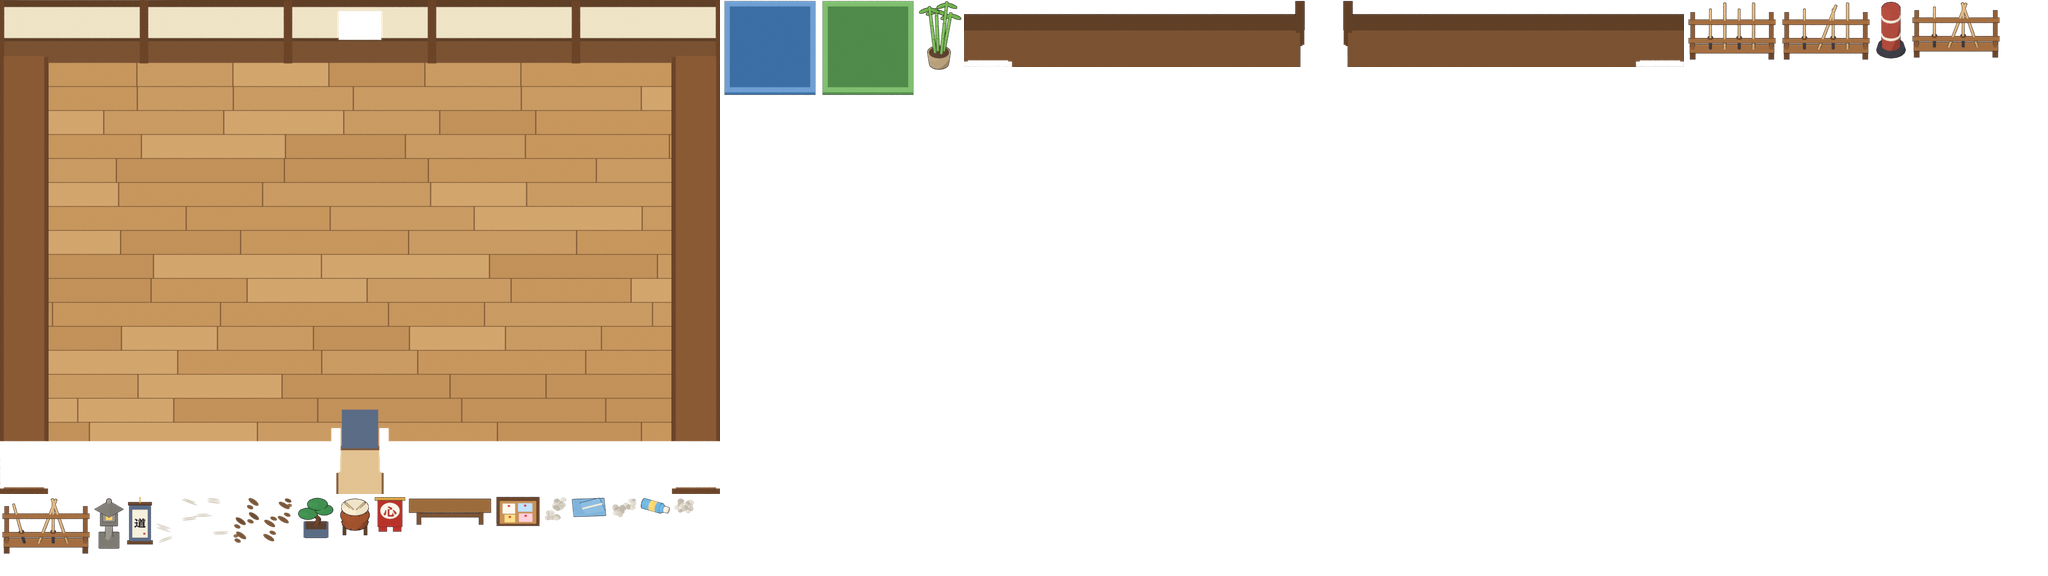
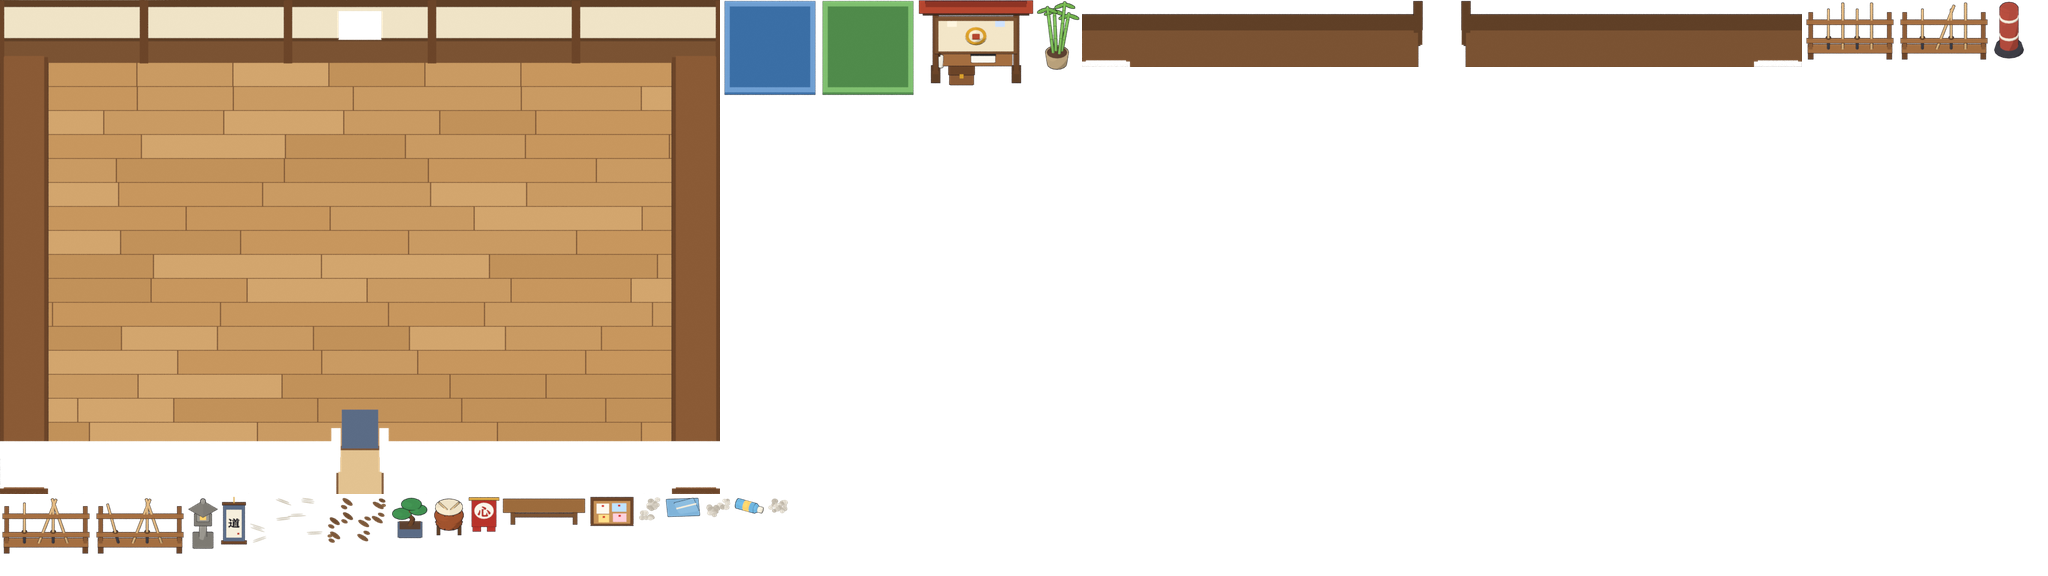
Training station art in the game, in the dojo's top-right corner; whole room in view while walking
- Jay approved the Blender station and turned down the tatami floor (removed from the draft script).
- Station: 2x2 solid tiles at columns 13-14, rows 2-3; walk up to it or tap it to open the Training Board.
- The dojo fits the whole room under the top bar while walking so the corner station is always visible.
- Art import only replaces a pack's own numbered pages (importing 'dojo' had deleted the dojo-az pages).

diff --git a/apps/client/src/scenes/DojoScene.ts b/apps/client/src/scenes/DojoScene.ts
@@ -99,10 +99,13 @@ const ROW2_Y = 60;
 const TRAY = 70;
 /** How many tiles tall the view is (the camera follows the character, like in the Tower). */
 const VIEW_ROWS = 6.5;
-/** Nov 17: walking around, the view shows more of the room, so the training station is in sight. Decorating keeps the close view. */
-const PLAY_VIEW_ROWS = 8.6;
-/** The training station (tiles): its middle, its base and top rows, and how far right of it counts as beside it. */
-const STATION = { x: 2, footY: 6, top: 4, reachX: 3.85 } as const;
+/**
+ * Nov 18: walking around, the view fits the whole room under the top bar (the room is 10 rows), so the
+ * training station in the top-right corner is always in sight. Decorating keeps the close view.
+ */
+const PLAY_FIT_ROWS = 10.1;
+/** The training station (tiles), in the top-right corner (Jay, Nov 18): its middle, its base row, and its left edge. */
+const STATION = { x: 13, footY: 3, left: 12 } as const;
 /** A tap this close (tiles) to a decoration picks it, for big fingers. */
 const PICK_SLACK = 0.7;
 /** Arrow buttons for moving the selected decoration. */
@@ -240,8 +243,8 @@ export class DojoScene extends Phaser.Scene {
     this.selectGfx = this.add.graphics();
     this.player = this.makePlayer();
     this.standLayer.add(this.player);
-    // Nov 17: the training station against the left wall (its 2x2 floor tiles are solid).
-    this.standLayer.add(drawTrainingStation(this, STATION.x * TILE, (STATION.footY - 0.08) * TILE, TILE, PW.dojoWallLabel));
+    // Nov 18: the training station in the top-right corner (its 2x2 floor tiles are solid). Jay approved its art.
+    this.standLayer.add(drawTrainingStation(this, STATION.x * TILE, STATION.footY * TILE, TILE, PW.dojoWallLabel));
     // Bottom to top: the floor and back wall, mats, the mess on the floor, standing things
     // and the character, then the front wall (the character walks behind it), outlines and labels.
     this.worldLayer.add([...room.back, this.decoLayer, this.spotLayer, this.standLayer, ...room.front, this.selectGfx, ...room.labels]);
@@ -494,10 +497,10 @@ export class DojoScene extends Phaser.Scene {
 
     const door = CONTENT.dojo.room.doors[0];
     const dDoor = Math.hypot(p.pos.x - door.x, p.pos.y - door.y);
-    // Next to the station (it is solid, so the hero stops beside or below it).
-    const atStation = p.pos.x < STATION.reachX && p.pos.y > STATION.top - 0.6 && p.pos.y < STATION.footY + 0.75;
+    // Next to the station (it is solid, so the hero stops below it or to its left).
+    const atStation = p.pos.x > STATION.left - 0.85 && p.pos.y < STATION.footY + 0.85;
     if (dDoor > 2.1) this.doorArmed = true;
-    if (p.pos.x > STATION.reachX + 0.9 || p.pos.y > STATION.footY + 1.4) this.boardArmed = true;
+    if (p.pos.x < STATION.left - 1.7 || p.pos.y > STATION.footY + 1.8) this.boardArmed = true;
     // The doorway: the last row before the door, anywhere across the door's width (a tap on the door
     // stops the hero a little short of it, so a tight distance missed it).
     const inDoorway = Math.abs(p.pos.x - door.x) < 0.9 && door.y - p.pos.y < 1.6;
@@ -1579,7 +1582,7 @@ export class DojoScene extends Phaser.Scene {
   /** Zooms in so the view is VIEW_ROWS tiles tall, like the Tower. */
   private layout(): void {
     const { width, height } = view(this);
-    this.zoom = height / ((this.mode === 'decorate' ? VIEW_ROWS : PLAY_VIEW_ROWS) * TILE);
+    this.zoom = this.mode === 'decorate' ? height / (VIEW_ROWS * TILE) : (height - TOP) / (PLAY_FIT_ROWS * TILE);
     this.worldLayer.setScale(this.zoom);
     this.choreButton.setPosition(width - CHORE_RADIUS - 24, height - CHORE_RADIUS - 24);
     this.controls.layout();
@@ -1622,7 +1625,7 @@ export class DojoScene extends Phaser.Scene {
   private toTile(x: number, y: number): Vec2 {
     const t = this.rawTile(x, y);
     // A tap on the training station walks up beside it.
-    if (this.onStation(t)) return { x: STATION.reachX - 0.3, y: STATION.footY - 0.6 };
+    if (this.onStation(t)) return { x: STATION.x, y: STATION.footY + 0.5 };
     return t;
   }
 
@@ -1632,7 +1635,7 @@ export class DojoScene extends Phaser.Scene {
 
   /** True for a room point (tiles) on the training station or its label. */
   private onStation(t: Vec2): boolean {
-    return this.mode === 'play' && t.x > 0.5 && t.x < STATION.reachX - 0.4 && t.y > STATION.top - 1.9 && t.y < STATION.footY + 0.2;
+    return this.mode === 'play' && t.x > STATION.left - 0.3 && t.x < STATION.left + 2.3 && t.y > -1 && t.y < STATION.footY + 0.2;
   }
 
   private puff(s: MessSpot): void {

diff --git a/apps/client/src/ui/trainingStation.ts b/apps/client/src/ui/trainingStation.ts
@@ -1,4 +1,5 @@
 import Phaser from 'phaser';
+import { addStatic, staticArt, staticBounds } from '../art/art';
 import { reducedMotion } from '../game/motion';
 import { FONT, crisp } from './theme';
 
@@ -9,6 +10,21 @@ import { FONT, crisp } from './theme';
  * Drawn in code until there is art for it. (cx, footY) is the middle of its base, in world pixels.
  */
 export function drawTrainingStation(scene: Phaser.Scene, cx: number, footY: number, tile: number, label: string): Phaser.GameObjects.Container {
+  // Nov 18: Jay approved the Blender station ('training-station' in the dojo pack). The code drawing
+  // below is only a fallback for when that art isn't loaded.
+  const art = addStatic(scene, 'dojo', 'training-station', 0, 0);
+  if (art.length > 0) {
+    // The label sits just above the painted top of the art (its roof).
+    const b = staticBounds(scene, 'dojo', 'training-station');
+    const sprite = staticArt(scene, 'dojo', 'training-station');
+    const anchorTop = b && sprite ? b.y - sprite.anchor[1] : -tile * 1.75;
+    const glow = scene.add.ellipse(0, tile * 0.25, tile * 2.2, tile * 0.6, 0xffd166, 0.22);
+    const text = stationLabel(scene, anchorTop - 4, label);
+    const chevron = stationChevron(scene, anchorTop - 30);
+    const c = scene.add.container(cx, footY, [glow, ...art, text, chevron]);
+    bob(scene, chevron, glow, anchorTop - 24);
+    return c;
+  }
   const w = tile * 2.3;
   const h = tile * 1.75;
   const g = scene.add.graphics();
@@ -49,8 +65,16 @@ export function drawTrainingStation(scene: Phaser.Scene, cx: number, footY: numb
   g.fillStyle(0xcfe3ff).fillRect(bx + bw - 14 - tile * 0.32, by + 16, tile * 0.32, tile * 0.24);
   g.fillStyle(0xb5462f).fillCircle(bx + 14 + tile * 0.16, by + 15, 2.5).fillCircle(bx + bw - 14 - tile * 0.16, by + 17, 2.5);
 
-  const text = scene.add
-    .text(0, top - 4, label, {
+  const text = stationLabel(scene, top - 4, label);
+  const chevron = stationChevron(scene, top - 30);
+  const c = scene.add.container(cx, footY, [glow, g, text, chevron]);
+  bob(scene, chevron, glow, top - 24);
+  return c;
+}
+
+function stationLabel(scene: Phaser.Scene, y: number, label: string): Phaser.GameObjects.Text {
+  return scene.add
+    .text(0, y, label, {
       fontFamily: FONT,
       fontStyle: 'bold',
       fontSize: '14px',
@@ -62,18 +86,21 @@ export function drawTrainingStation(scene: Phaser.Scene, cx: number, footY: numb
     })
     .setOrigin(0.5, 1)
     .setResolution(crisp() * 2);
+}
 
-  // A small gold chevron that bobs above the label (still with reduced motion).
+/** A small gold chevron above the label, pointing down at the station. */
+function stationChevron(scene: Phaser.Scene, y: number): Phaser.GameObjects.Graphics {
   const chevron = scene.add.graphics();
   chevron.fillStyle(0xffd166, 1);
   chevron.fillTriangle(-8, 0, 8, 0, 0, 9);
   chevron.lineStyle(2, 0x14121c, 1).strokeTriangle(-8, 0, 8, 0, 0, 9);
-  chevron.setPosition(0, top - 30);
+  chevron.setPosition(0, y);
+  return chevron;
+}
 
-  const c = scene.add.container(cx, footY, [glow, g, text, chevron]);
-  if (!reducedMotion()) {
-    scene.tweens.add({ targets: chevron, y: top - 24, duration: 650, yoyo: true, repeat: -1, ease: 'Sine.InOut' });
-    scene.tweens.add({ targets: glow, alpha: 0.38, duration: 1200, yoyo: true, repeat: -1, ease: 'Sine.InOut' });
-  }
-  return c;
+/** The chevron bobs and the floor glow breathes (both still with reduced motion). */
+function bob(scene: Phaser.Scene, chevron: Phaser.GameObjects.Graphics, glow: Phaser.GameObjects.Ellipse, toY: number): void {
+  if (reducedMotion()) return;
+  scene.tweens.add({ targets: chevron, y: toY, duration: 650, yoyo: true, repeat: -1, ease: 'Sine.InOut' });
+  scene.tweens.add({ targets: glow, alpha: 0.38, duration: 1200, yoyo: true, repeat: -1, ease: 'Sine.InOut' });
 }

diff --git a/packages/sim/src/dojo.ts b/packages/sim/src/dojo.ts
@@ -201,7 +201,7 @@ export function loadDojoContent(roomData: unknown, decorationsData: unknown): Do
   const b = raw.board as Record<string, unknown> | undefined;
   if (!b || typeof b.column !== 'number' || typeof b.row !== 'number' || b.row !== 1) throw new DojoError('"board" needs a "column" and "row": 1 (the top wall)');
   const board = { col: b.column - 1, row: 0 };
-  // Nov 17: the training station stands against the left wall, mid-room (STATION_TILES). It is solid,
+  // Nov 18: the training station stands in the room's top-right corner (STATION_TILES). It is solid,
   // so nothing is placed there and the hero walks up to it, not through it.
   for (const t of STATION_TILES) if (room.walls[t.row]?.[t.col] === false) room.walls[t.row][t.col] = true;
 
@@ -446,6 +446,8 @@ export function canPlace(dojo: DojoState, content: DojoContent, uid: string, col
     // Along the top wall, clear of the corners, the board, and other wall decorations.
     if (row !== 0 || col < 1 || col + def.width > room.width - 1) return false;
     if (tiles.some((t) => t.col === content.board.col)) return false;
+    // ...and not on the wall behind the training station, where it would be hidden.
+    if (tiles.some((t) => STATION_TILES.some((s) => s.col === t.col))) return false;
     return !placed(dojo).some((o) => o.uid !== uid && decorationDef(content, o.id).place === 'wall' && overlaps(tiles, footprint(o.col!, o.row!, decorationDef(content, o.id))));
   }
   if (tiles.some((t) => room.walls[t.row]?.[t.col] !== false)) return false;
@@ -516,12 +518,12 @@ export function findSpot(dojo: DojoState, content: DojoContent, uid: string): { 
 }
 
 /** The dojo room with solid decorations counted as walls, for walking around in. */
-/** The floor tiles the Home Dojo's training station stands on: 2x2 against the left wall, mid-room. */
+/** The floor tiles the Home Dojo's training station stands on: 2x2 in the top-right corner (Jay, Nov 18). */
 export const STATION_TILES: readonly { col: number; row: number }[] = [
-  { col: 1, row: 4 },
-  { col: 2, row: 4 },
-  { col: 1, row: 5 },
-  { col: 2, row: 5 },
+  { col: 12, row: 1 },
+  { col: 13, row: 1 },
+  { col: 12, row: 2 },
+  { col: 13, row: 2 },
 ];
 
 export function dojoRoom(dojo: DojoState, content: DojoContent): Room {

diff --git a/packages/sim/test/dojo.test.ts b/packages/sim/test/dojo.test.ts
@@ -198,9 +198,10 @@ describe('decorating', () => {
     const ids = addDecorations(dojo, ['stone-lantern', 'stone-lantern', 'stone-lantern']);
     const start = { col: Math.floor(dc.room.playerStart.x), row: Math.floor(dc.room.playerStart.y) };
     expect(canPlace(dojo, dc, ids[0].uid, start.col, start.row)).toBe(false);
-    // Boxing in the corner (13, 1)... placing lanterns at (12,1) and (13,2) would seal it.
-    expect(placeItem(dojo, dc, ids[0].uid, 12, 1)).toBe(true);
-    expect(canPlace(dojo, dc, ids[1].uid, 13, 2)).toBe(false);
+    // Boxing in the corner (1, 8)... placing lanterns at (2,8) and (1,7) would seal it.
+    // (The top-right corner holds the training station since Nov 18.)
+    expect(placeItem(dojo, dc, ids[0].uid, 2, 8)).toBe(true);
+    expect(canPlace(dojo, dc, ids[1].uid, 1, 7)).toBe(false);
   });
 
   it('dust under a moved decoration moves out from under it', () => {

diff --git a/incoming-art/claude-dojo-v2/source/build_dojo_v2.py b/incoming-art/claude-dojo-v2/source/build_dojo_v2.py
@@ -1,6 +1,6 @@
 """
-Dojo Ascent - Home Dojo v2 (Claude Code, Nov 18): the Art Director bot's Batch 3 script, with a tatami
-training floor and the new training station. Original: incoming-art/home-dojo/source/build_home_dojo.py.
+Dojo Ascent - Home Dojo v2 (Claude Code, Nov 18): the Art Director bot's Batch 3 script plus the training
+station (Jay approved the station Nov 18; the tatami floor was turned down, so the floor is the original). Original: incoming-art/home-dojo/source/build_home_dojo.py.
 
 Dojo Ascent - Home Dojo room, decorations and mess (Art Director bot), Batch 3.
 
@@ -89,7 +89,7 @@ def target(name, layers, rect, top, anchor="bottom-center", **kw):
 WOOD = ["#c99a62", "#c19159", "#d2a56d", "#c7965d"]
 H_WALL = 1.3 / math.cos(math.radians(35))       # the back wall fills the top wall row + 0.3 tile above it
 cols, rows = len(ROOM["tiles"][0]), len(ROOM["tiles"])          # 15 x 10
-# floor v2 (Nov 18): wooden planks around the edge, and a tatami training floor in the middle.
+# floor: a dark base, then planks running left-right (half-tile rows), random lengths
 gbox("floor", "floor_base", 0, 0, cols, rows, -0.06, -0.01, "#7b5434", outline=False)
 for j in range(2, 2 * (rows - 1)):
     c = 1.0 - random.random() * 2
@@ -99,44 +99,6 @@ for j in range(2, 2 * (rows - 1)):
         gbox("floor", f"plank_{j}_{c:.1f}", max(c, 1) + 0.012, j / 2 + 0.012, c1 - 0.012, (j + 1) / 2 - 0.012, -0.01, 0.0,
              random.choice(WOOD), outline=False)
         c = c1
-# Tatami: columns 4..11, rows 2..8 (tiles), in the classic pattern of 2x1 mats turned this way and that.
-# Each mat: a woven straw face (two close greens/tans), a dark cloth edge (heri) on its long sides.
-T0C, T1C, T0R, T1R = 4, 12, 2, 8
-gbox("floor", "tatami_frame", T0C - 0.1, T0R - 0.1, T1C + 0.1, T1R + 0.1, 0.0, 0.012, "#5f3f26", outline=False)
-STRAW = ["#cdbf7a", "#c6b872", "#d2c582", "#c9bb76"]
-HERI = "#2f4a3a"
-def tatami(name, c0, r0, c1, r1, vertical):
-    gbox("floor", name, c0 + 0.02, r0 + 0.02, c1 - 0.02, r1 - 0.02, 0.012, 0.03, random.choice(STRAW), outline=False)
-    # weave lines across the mat's short way
-    n = 9
-    for k in range(1, n):
-        if vertical:
-            y = r0 + (r1 - r0) * k / n
-            gbox("floor", f"{name}_w{k}", c0 + 0.08, y - 0.006, c1 - 0.08, y + 0.006, 0.03, 0.032, "#b5a765", outline=False)
-        else:
-            x = c0 + (c1 - c0) * k / n
-            gbox("floor", f"{name}_w{k}", x - 0.006, r0 + 0.08, x + 0.006, r1 - 0.08, 0.03, 0.032, "#b5a765", outline=False)
-    if vertical:   # heri along the long (vertical) sides
-        gbox("floor", f"{name}_hl", c0 + 0.02, r0 + 0.02, c0 + 0.09, r1 - 0.02, 0.03, 0.036, HERI, outline=False)
-        gbox("floor", f"{name}_hr", c1 - 0.09, r0 + 0.02, c1 - 0.02, r1 - 0.02, 0.03, 0.036, HERI, outline=False)
-    else:
-        gbox("floor", f"{name}_ht", c0 + 0.02, r0 + 0.02, c1 - 0.02, r0 + 0.09, 0.03, 0.036, HERI, outline=False)
-        gbox("floor", f"{name}_hb", c0 + 0.02, r1 - 0.09, c1 - 0.02, r1 - 0.02, 0.03, 0.036, HERI, outline=False)
-k = 0
-for r in range(T0R, T1R, 2):
-    for c in range(T0C, T1C, 2):
-        # alternate: a 2x2 block is either two side-by-side vertical mats or two stacked horizontal mats
-        if ((r - T0R) // 2 + (c - T0C) // 2) % 2 == 0:
-            tatami(f"tat{k}a", c, r, c + 1, r + 2, True); tatami(f"tat{k}b", c + 1, r, c + 2, r + 2, True)
-        else:
-            tatami(f"tat{k}a", c, r, c + 2, r + 1, False); tatami(f"tat{k}b", c, r + 1, c + 2, r + 2, False)
-        k += 1
-# A red line marks where students bow in, along the front edge of the tatami.
-gbox("floor", "bow_line", T0C + 3.4, T1R - 0.22, T1C - 3.4, T1R - 0.14, 0.036, 0.04, "#b5462f", outline=False)
-# Soft shade along the walls (a few dark strips, very faint), so the room has depth.
-for i, a in enumerate((0.16, 0.10, 0.05)):
-    sh = M("#3a2616", flat=True)
-gbox("floor", "shade_top", 1, 1.0, cols - 1, 1.35, 0.001, 0.002, "#a57a4c", outline=False)
 # back wall (top row): dark wainscot, plaster panels between posts, a top beam
 WF = 1.0                                           # the wall's front face stands on the line between rows 0 and 1
 def wall_part(name, c0, c1, z0, z1, color, dy=0.0, outline=False):
@@ -417,7 +379,7 @@ for nm, fn, sd, what in LITTER:
                        note=f"mess: {what}, centred on the spot (anchorPx = cell centre). Replaces the fallen leaves: draw for the game's 'leaf' floor spots (pick one of footprints-1, footprints-2, towel, water-bottle). Clean = not drawn")
 
 # ============================================================ TRAINING STATION (Nov 18, Claude Code)
-# 2 x 2 floor tiles against the left wall (columns 2-3, rows 5-6 counting from 1). A wooden stand with a
+# 2 x 2 floor tiles in the room's top-right corner (columns 13-14, rows 2-3 counting from 1; Jay, Nov 18). A wooden stand with a
 # tiled roof, a scroll board showing a gold fist emblem (training), hand wraps hanging from pegs and a small
 # chest of gear at its foot. anchorPx = the bottom-centre of the footprint, like the other floor pieces.
 def station(lay, w, h):
@@ -451,7 +413,7 @@ def station(lay, w, h):
     obox(lay, f"{lay}_clasp", Vector((w / 2 - 0.3, yb - 0.36, 0.24)), (0.08, 0.02, 0.1), "#d9a02b", outline=False)
 station("training-station", 2, 2)
 target("training-station", ["training-station"], [-0.25, 0, 2.25, 2.12], 1.9, anchor=[1, 2], footprint=[2, 2], place="floor",
-       note="the Home Dojo's training station (Nov 18): stands on columns 2-3, rows 5-6 (1-based); anchorPx = bottom-centre of the footprint")
+       note="the Home Dojo's training station (Nov 18): stands on columns 13-14, rows 2-3 (1-based); anchorPx = bottom-centre of the footprint")
 
 scene.frame_set(1)
 scene["static_targets"] = json.dumps(TARGETS)

diff --git a/tools/art-import/import_art.py b/tools/art-import/import_art.py
@@ -278,7 +278,9 @@ def main() -> None:
         pages = packer.pack()
         names = []
         for old in os.listdir(out_dir):
-            if old.startswith(pack_name + '-') and old.endswith(('.png', '.webp')):
+            # Only this pack's own pages (<pack>-<number>): "dojo" must never remove "dojo-az-inside-0".
+            stem = old.rsplit('.', 1)[0]
+            if stem.startswith(pack_name + '-') and stem[len(pack_name) + 1:].isdigit() and old.endswith(('.png', '.webp')):
                 os.remove(os.path.join(out_dir, old))
         for i, page in enumerate(pages):
             # Lossless WebP by default: exact pixels, about 40% smaller than PNG.

diff --git a/docs/decisions.md b/docs/decisions.md
@@ -2017,3 +2017,10 @@ Jay's answers to the Fable review's questions (Nov 14, board section 000) applie
 - **New Equipment screen (Jay: "premium feel like Archero 2, Survivor.io").** One full-screen view replaces the Gear tab's paper doll and the separate Bag screen: the hero on a pedestal with three big slots, the whole bag as a scrolling grid of rarity-framed tiles (best first, filter chips, green upgrade arrows, Wearing ribbons), a pop-up item card with one big Wear / Take off button, and Wear best. The compare stays arrows and words, with numbers behind Details (D6 and CLAUDE.md rule 13). The old gear-tab code is unused and can be removed later.
 - **Desktop and tablet support (Jay: students want to play on Windows computers).** This changes CLAUDE.md's "touch only" rule: touch stays first, and the keyboard and mouse also work. Arrow keys or WASD move; Space/K = Counter, J = Strike, L/Shift = Dash, E = Virtue; key hints show under the fight buttons on computers without touch. On screens bigger than a phone the layout is drawn larger (`UI_SCALE` in `ui/theme.ts`: 1 on phones, about 2 on a 1080p monitor) and stays sharp.
 - **Combat changes wait for Jay.** The playtest notes (`docs/reviews/playtest-notes-2026-11-18.md`) explain the "looking for the yellow !" problem and seven fixes; nothing is built until Jay picks.
+
+## Station art and place (2026-11-18)
+
+- **Jay approved the training station art** ("the station looks great") and **turned down the tatami floor** ("a no go"): the floor stays bare or almost bare to start, and students decorate it themselves. More decorations to choose from is the way to dress the room.
+- **The station stands in the room's top-right corner** (Jay): 2x2 floor tiles at columns 13-14, rows 2-3 (1-based), solid. Walking up to it (below it or to its left) or tapping it opens the Training Board. Wall decorations can't go on the wall behind it.
+- **Walking around, the dojo view fits the whole room** under the top bar, so the corner station is always in sight (the close view at 8.6 rows hid the top of the room under the buttons). Decorating keeps the close view.
+- The station art is in the dojo pack (`tools/art-import/approved.json`, source `incoming-art/claude-dojo-v2/sprites/`). The import tool now only replaces a pack's own numbered pages (it used to delete `dojo-az-*` when importing `dojo`).

diff --git a/docs/progress.md b/docs/progress.md
@@ -1324,3 +1324,8 @@ I checked every "Next" and "Not done / known limits" note. Only one is a bug: **
 - 1,620 tests pass; type checks and both builds pass. Copied onto `main` (the live link) with Jay's OK ("copy everything to the live link when finished").
 - **Next:** talk through the playtest notes with Jay and pick the combat fixes; art clean-up (see below).
 - **Art draft (not in the game):** Home Dojo v2 in `incoming-art/claude-dojo-v2/`, made in Blender 5.3 with the Art Director bot's script and style: a tatami training floor and a modelled training station. Waiting on Jay's OK before import. The bot's script needed one small fix for Blender 5 (noted in the copy).
+
+## Training station in the top-right corner (2026-11-18)
+
+- Jay's OK on the station art; tatami turned down. The station art replaces the code drawing and stands in the top-right corner; the dojo shows the whole room while walking.
+- Fixed the art import tool deleting other packs' pages. 1,620 tests pass.

diff --git a/docs/work-board.md b/docs/work-board.md
@@ -36,7 +36,7 @@ Last updated: 2026-11-18 by Claude Code.
 | N3 | Premium Equipment screen. | Done |
 | N4 | Desktop (Windows) and tablet support. | Done |
 | N5 | Full playtest; yellow-! notes and weak spots, to discuss. | Notes ready: `docs/reviews/playtest-notes-2026-11-18.md` |
-| N6 | Art clean-up of the weakest art. | Draft ready for Jay: `incoming-art/claude-dojo-v2/` (tatami floor, modelled training station) |
+| N6 | Art clean-up of the weakest art. | Station art approved and in the game (top-right corner); tatami turned down |
 
 ## 3. Claude Code: beta (freeze Dec 4, families Dec 15)
 

diff --git a/incoming-art/claude-dojo-v2/README.md b/incoming-art/claude-dojo-v2/README.md
@@ -1,6 +1,6 @@
 # Home Dojo v2 (Claude Code, Nov 18) — draft, waiting on Jay
 
-**Status: not approved, not in the game.** Made after Jay asked Claude to "try your hand" at the weakest art.
+**Status (Nov 18): the training station is approved and in the game (top-right corner). The tatami floor was turned down and removed from this script.**
 
 The Home Dojo became the main hub on Nov 18, and it was the weakest-looking piece: a big plain plank floor, and a
 training station drawn in code. This draft keeps the Art Director bot's exact style, camera and grid (its Batch 3
